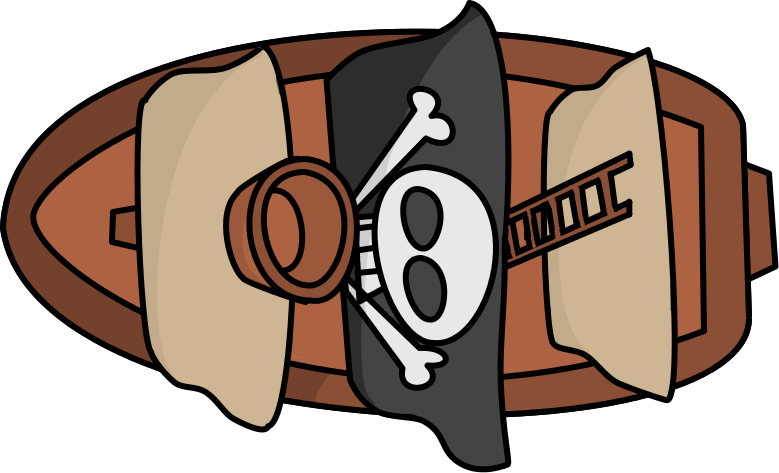
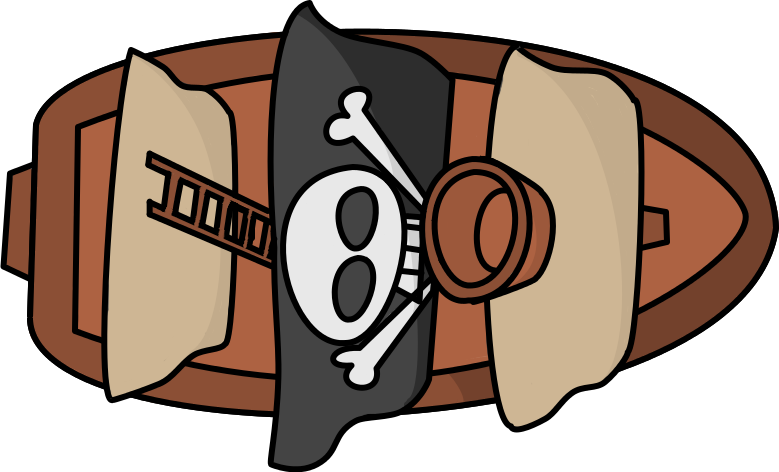
Flipped pirate ship sprite asset.

diff --git a/web/static/js/app.js b/web/static/js/app.js
@@ -30,9 +30,10 @@ function preload() {
 }
 
 var sprite;
-const pi = Phaser.Math.degToRad(180); // FLIPPING PNG'S IS HARD
 
 function create() {
+
+    game.stage.backgroundColor = "#0000FF";
 
     sprite = game.add.sprite(game.world.centerX, game.world.centerY, 'ball');
     sprite.scale.setTo(.2, .2); // SCALING PNG'S IS HARD
@@ -48,7 +49,7 @@ function update() {
     // {
         //  400 is the speed it will move towards the mouse
         game.physics.arcade.moveToPointer(sprite, 400);
-        sprite.rotation = game.physics.arcade.angleToPointer(sprite) + pi;
+        sprite.rotation = game.physics.arcade.angleToPointer(sprite);
 
         //  if it's overlapping the mouse, don't move any more
         if (Phaser.Rectangle.contains(sprite.body, game.input.x, game.input.y))
